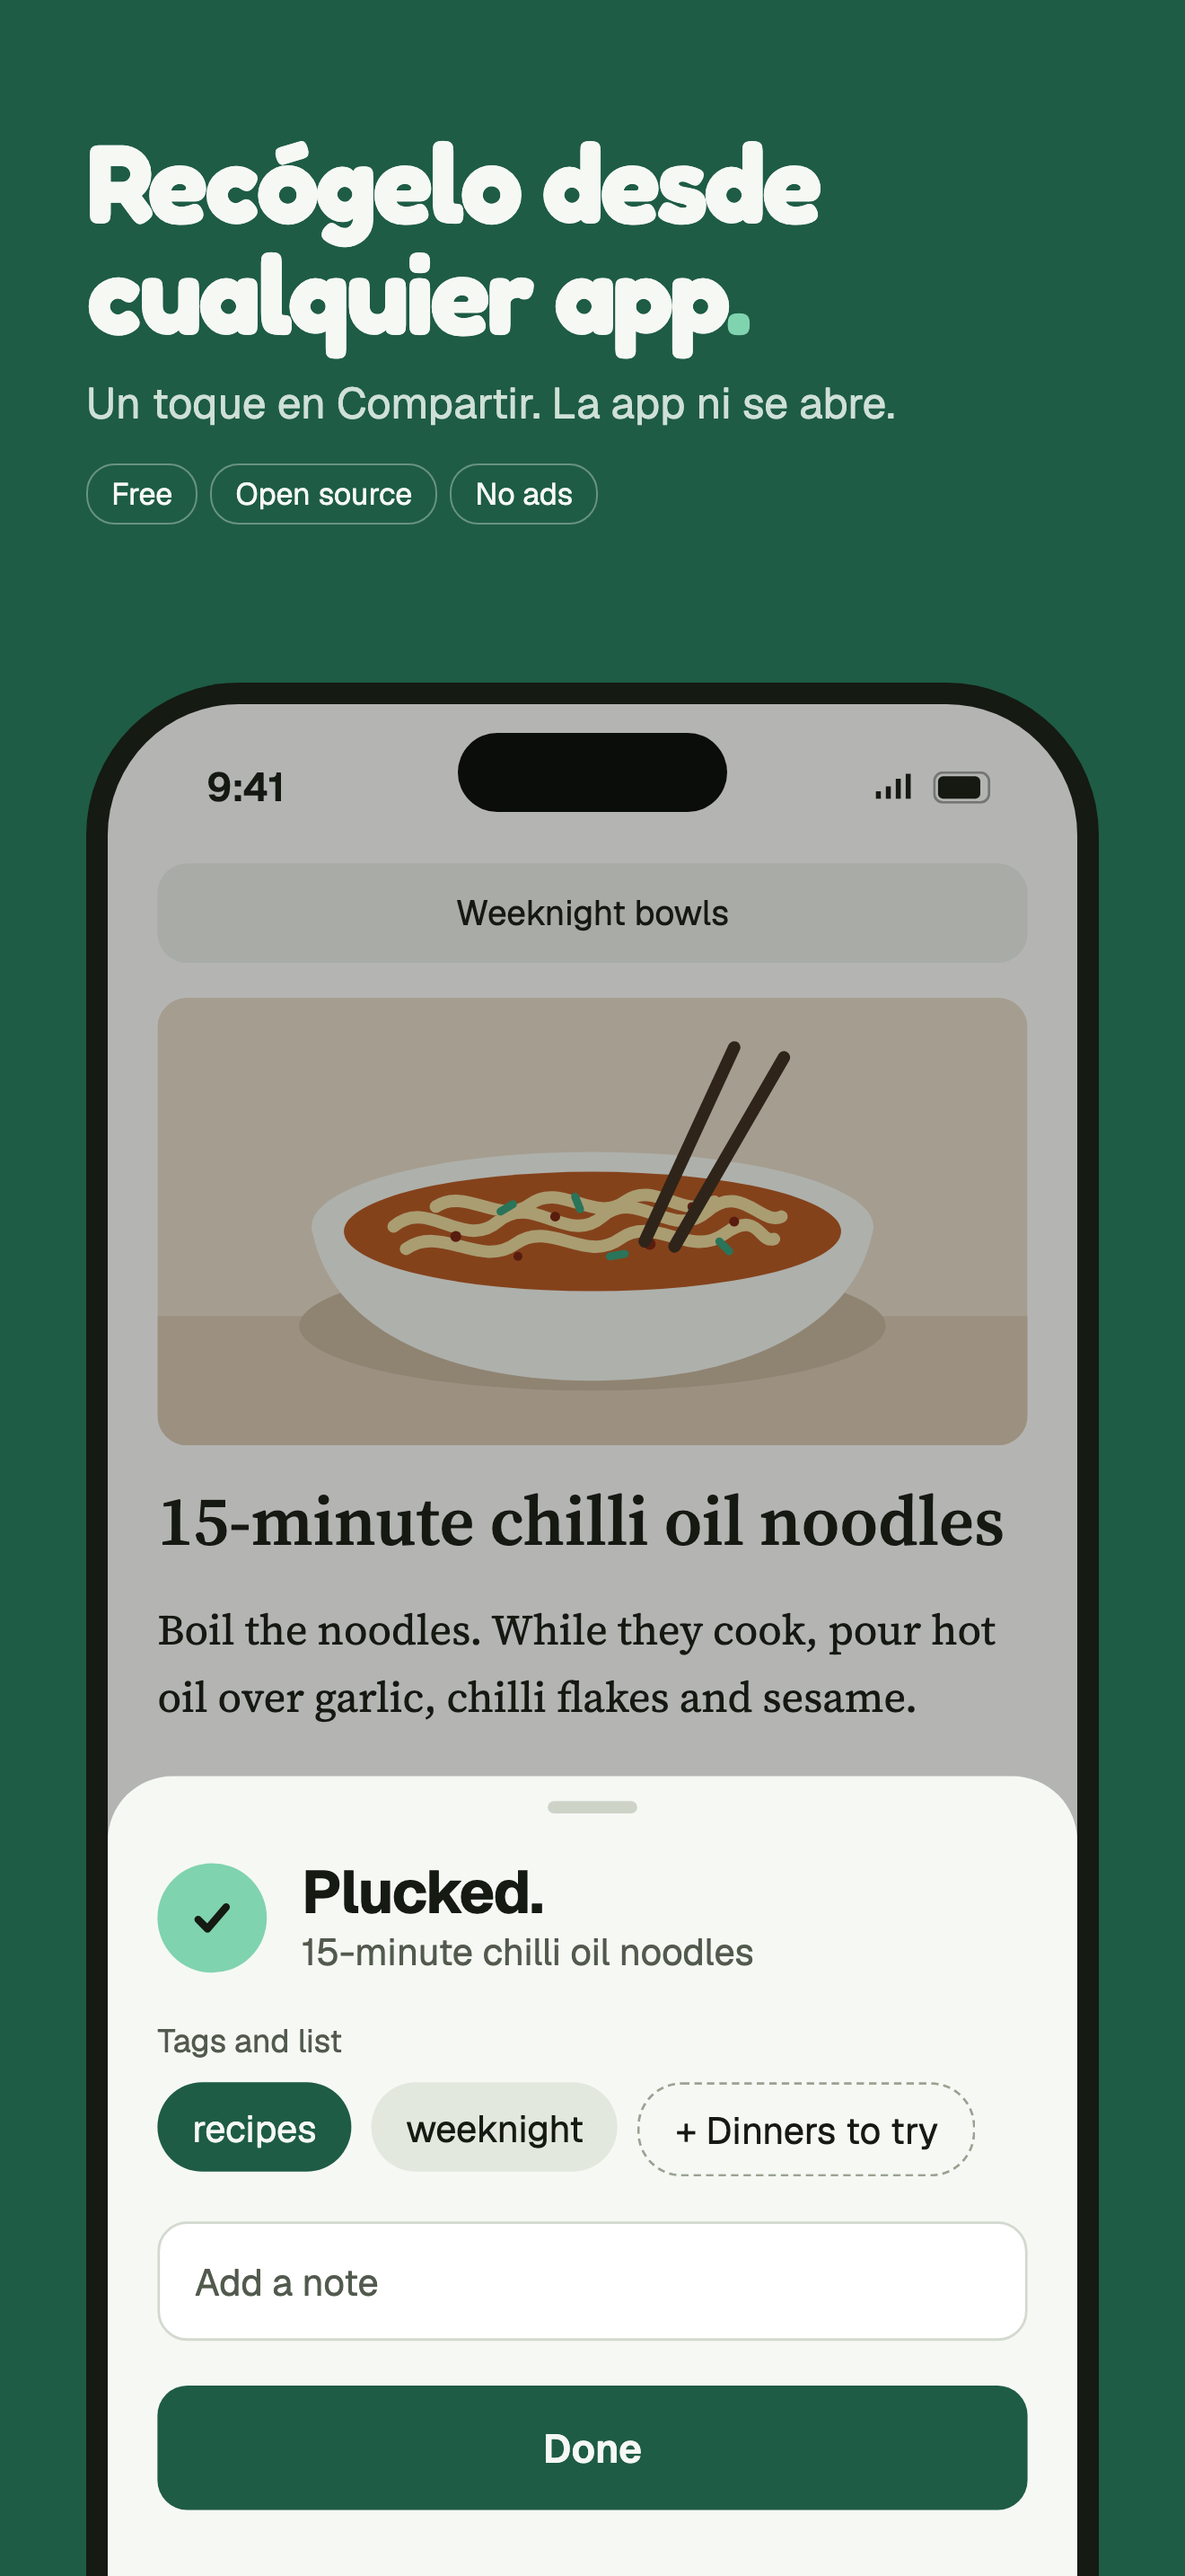
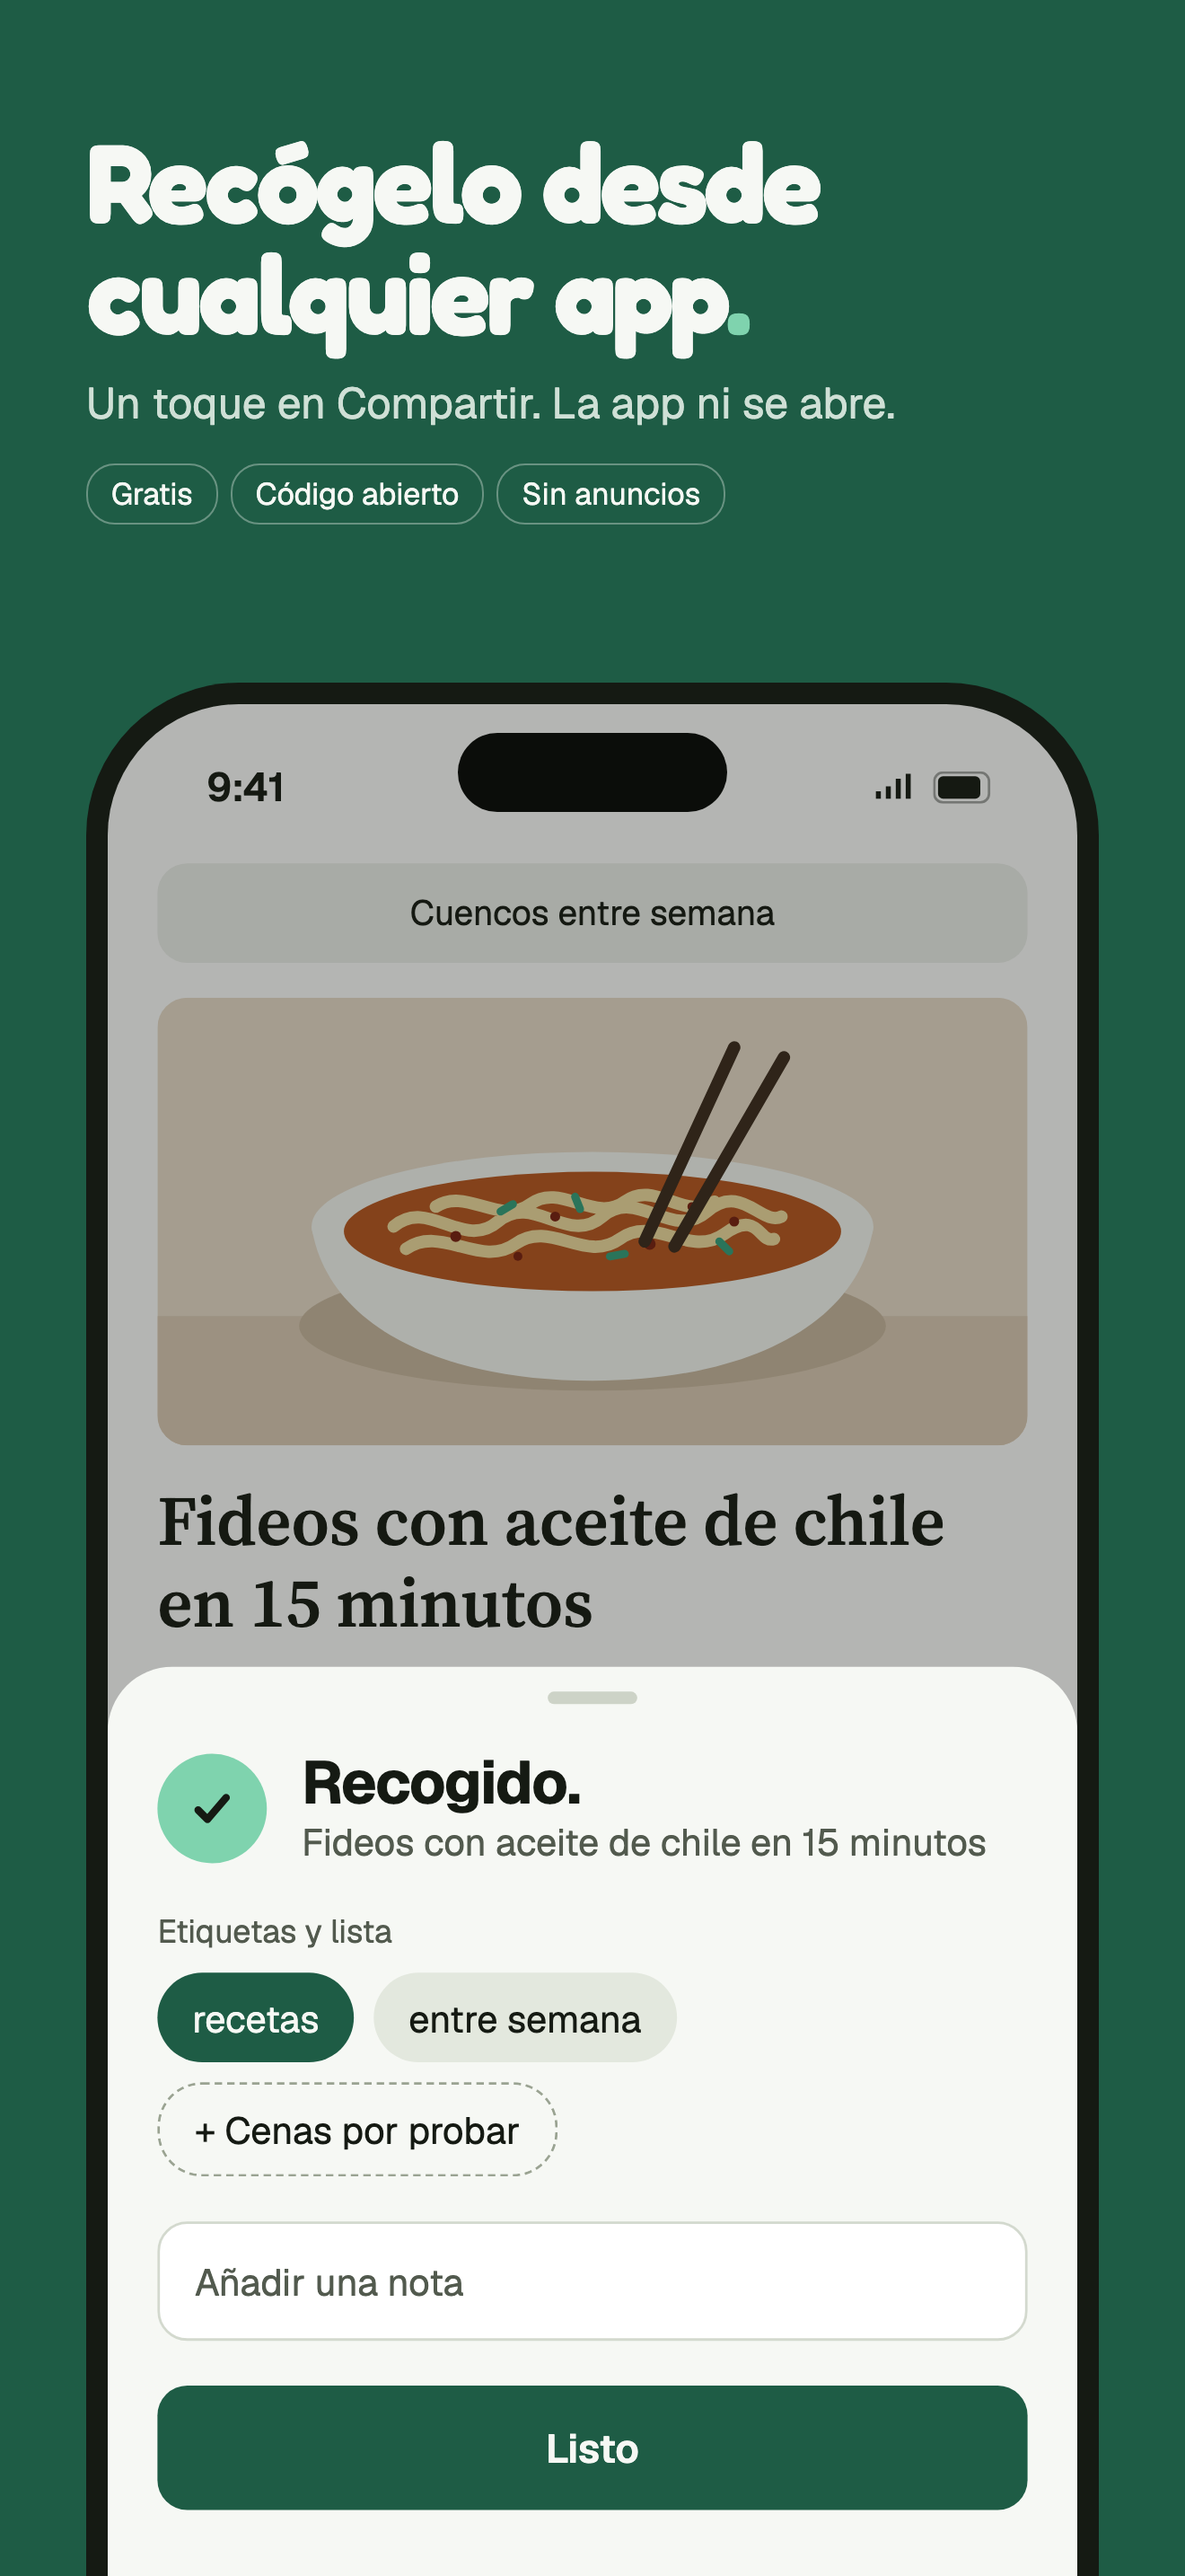
Frame 1 in every language, and English frames 6 and 7 come down
Frame 1's share sheet is drawn, not captured, and it was English in all
nine other languages on iPhone and iPad. docs/store/frame1.json now has
its words in each: the share sheet's own from packages/i18n, and the
recipe page behind it translated. store-iphone.mjs swaps them into the
board; store-ipad.mjs draws iPad frame 1 again in that language instead
of laying the words over the English art.

English iPhone frames 6 and 7 showed Settings the app doesn't have
(guideline 2.3.3), so they're gone from the repo and the store. Every
language now has five frames. audit.json says so, and that new 6 and 7
are with Claude Design.

Claude-Session: https://claude.ai/code/session_01Chg7BBfwaoFjYv8SEWTjMY

diff --git a/docs/store/app-store.md b/docs/store/app-store.md
@@ -18,7 +18,7 @@ Support URL https://getpluck.io/support, marketing URL https://getpluck.io, priv
 
 ## Screenshots
 
-`screenshots/6.9in` (1320 × 2868) and `screenshots/6.3in` (1206 × 2622), PNG with no alpha, in upload order. Drawn on the canvas as `AppStore1` to `AppStore7`, with an everyday sample library rather than developer reading. Frame 5 is dark mode.
+`screenshots/6.9in` (1320 × 2868) and `screenshots/6.3in` (1206 × 2622), PNG with no alpha, in upload order. Drawn on the canvas as `AppStore1` to `AppStore5`, with an everyday sample library rather than developer reading. Frame 5 is dark mode. `AppStore6` and `7` came down on 4 November 2026: they showed Settings the app doesn't have (guideline 2.3.3). Their replacements are with Claude Design.
 
 Before launch, swap each drawn phone screen for a real Simulator capture of the same library (`scripts/demo-seed.mjs` with the sample Items in the table below), so the listing shows the app exactly as it ships.
 
@@ -72,7 +72,7 @@ No app preview video for launch. A preview must be a screen recording of the app
 
 Every page opens with what is still to do for that language and device, and marks the screenshots it covers: the known issues in `audit.json` (remove an entry once it is fixed), and what the page checks for itself (a field over Apple's limit, a line voice.md rules out, a set shorter than English's). Red is an App Review risk, orange is polish.
 
-`screenshots/<lang>/` is each other language's iPhone set as uploaded, at 1320 × 2868; English is `screenshots/6.9in`. They're boards `AppStore1` to `5` drawn with that language's words (`screenshots/strings.<lang>.json`) and, in frames 2 to 5, real captures of the app in that language (iPhone 17 Simulator, `-AppleLanguages "(de)"`, the store library):
+`screenshots/<lang>/` is each other language's iPhone set as uploaded, at 1320 × 2868; English is `screenshots/6.9in`. They're boards `AppStore1` to `5` drawn with that language's words (`screenshots/strings.<lang>.json`) and, in frames 2 to 5, real captures of the app in that language (iPhone 17 Simulator, `-AppleLanguages "(de)"`, the store library). Frame 1's drawn share sheet, and the recipe page behind it, take each language's words from `frame1.json`, as iPad frame 1 does:
 
 ```sh
 node scripts/store-iphone.mjs de <dir with that language's 2.png … 5.png>
